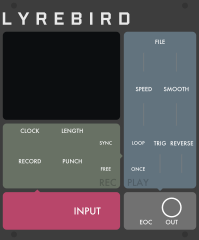
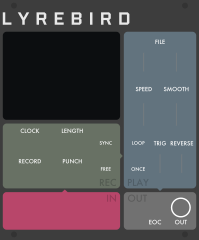
Lyrebird: IN and OUT plate names replace INPUT; source pair centred, outputs moved right

diff --git a/src/Lyrebird.cpp b/src/Lyrebird.cpp
@@ -1371,8 +1371,8 @@ struct LyrebirdWidget : ModuleWidget {
 		addParam(createParamCentered<CKSS>(mm2px(Vec(56.68, 83.51)), module, Lyrebird::TIME_PARAM));
 
 		// SOURCE plate
-		addParam(createParamCentered<RoundBigBlackKnob>(mm2px(Vec(12.0, 112.93)), module, Lyrebird::GESTURE_PARAM));
-		addInput(createInputCentered<PJ301MPort>(mm2px(Vec(28.0, 112.93)), module, Lyrebird::CV_INPUT));
+		addParam(createParamCentered<RoundBigBlackKnob>(mm2px(Vec(26.74, 112.93)), module, Lyrebird::GESTURE_PARAM));
+		addInput(createInputCentered<PJ301MPort>(mm2px(Vec(42.74, 112.93)), module, Lyrebird::CV_INPUT));
 
 		// PLAYBACK plate
 		addParam(createParamCentered<CKSS>(mm2px(Vec(74.08, 83.51)), module, Lyrebird::PLAY_PARAM));
@@ -1391,8 +1391,8 @@ struct LyrebirdWidget : ModuleWidget {
 		addInput(createInputCentered<PJ301MPort>(mm2px(Vec(97.48, 92.605)), module, Lyrebird::REVERSE_INPUT));
 
 		// Output plate
-		addOutput(createOutputCentered<PJ301MPort>(mm2px(Vec(78.18, 111.105)), module, Lyrebird::EOC_OUTPUT));
-		addOutput(createOutputCentered<PJ301MPort>(mm2px(Vec(92.045, 111.105)), module, Lyrebird::MAIN_OUTPUT));
+		addOutput(createOutputCentered<PJ301MPort>(mm2px(Vec(83.085, 111.105)), module, Lyrebird::EOC_OUTPUT));
+		addOutput(createOutputCentered<PJ301MPort>(mm2px(Vec(96.95, 111.105)), module, Lyrebird::MAIN_OUTPUT));
 	}
 
 	// MetaModule has no history, and runs the file service on its own thread
